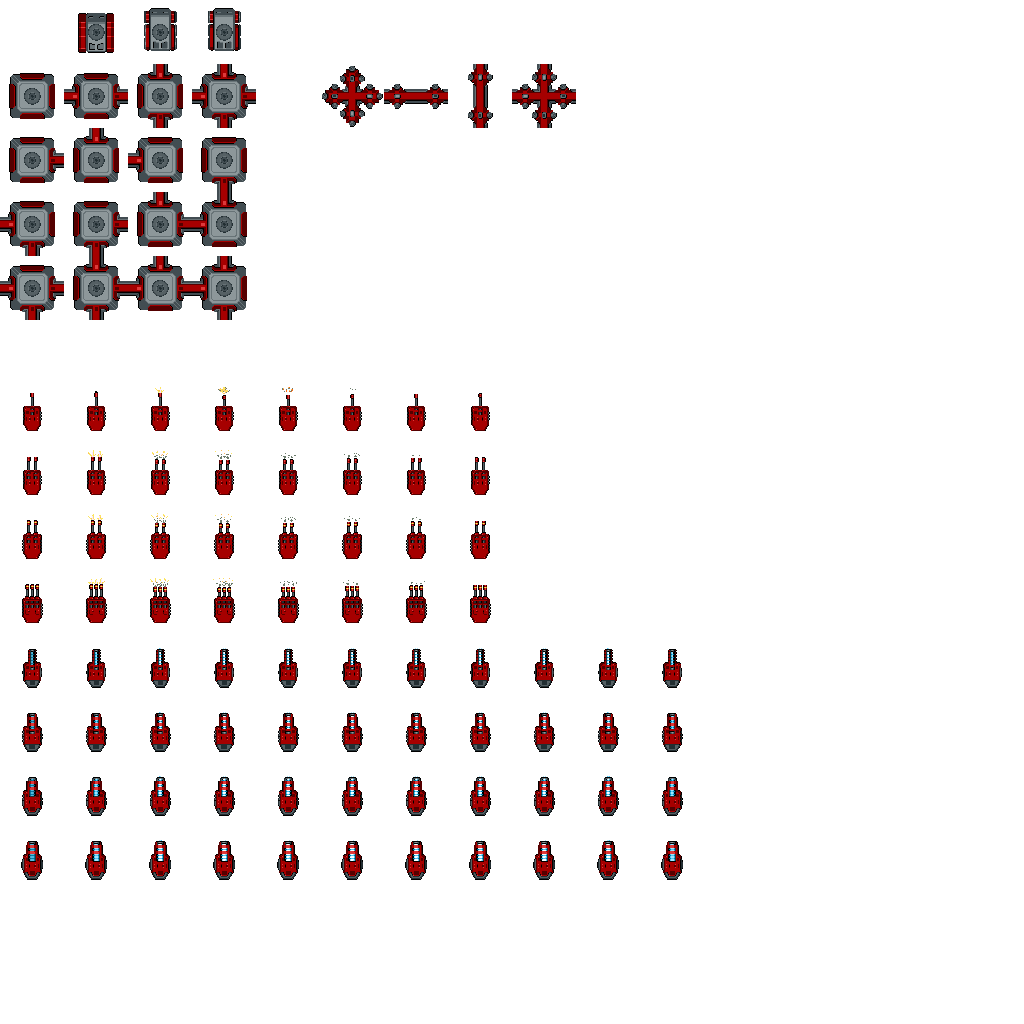
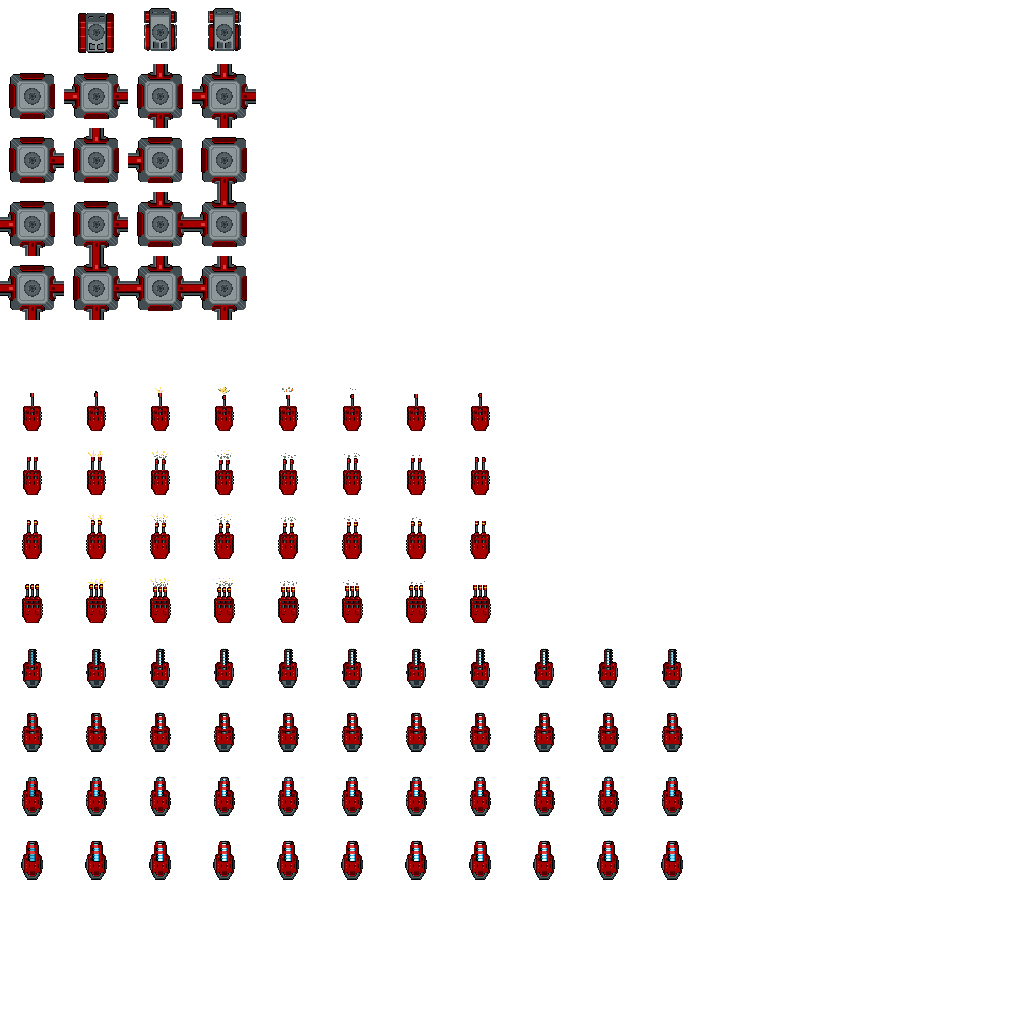
Layers

Changed region(s): [[0.3125, 0.0625, 0.5625, 0.125]]

diff --git a/mediumgame-learning/game.py b/mediumgame-learning/game.py
@@ -2,6 +2,49 @@ import pygame
 from pygame.math import Vector2
 from pygame import Rect
 
+class Layer:
+    def __init__(self, ui, imageFile):
+        self.ui = ui
+        self.texture = pygame.image.load(imageFile)
+
+    def renderTile(self, surface, position, tile):
+        # Location on screen
+        spritePoint = position.elementwise()*self.ui.cellSize
+
+        # Texture
+        texturePoint = tile.elementwise()*self.ui.cellSize
+        textureRect = Rect(int(texturePoint.x), int(texturePoint.y), self.ui.cellWidth, self.ui.cellHeight)
+
+        # Draw
+        surface.blit(self.texture, spritePoint, textureRect)
+
+    def render(self, surface):
+            raise NotImplementedError()
+
+class ArrayLayer(Layer):
+    def __init__(self, ui, imageFile, gameState, array):
+        super().__init__(ui, imageFile)
+        self.gameState = gameState
+        self.array = array
+
+    def render(self, surface):
+        for y in range(self.gameState.worldHeight):
+            for x in range(self.gameState.worldWidth):
+                tile = self.array[y][x]
+                if not tile is None:
+                    self.renderTile(surface, Vector2(x, y), tile)
+
+class UnitsLayer(Layer):
+    def __init__(self, ui, imageFile, gameState, units):
+        super().__init__(ui, imageFile)
+        self.gameState = gameState
+        self.units = units
+
+    def render(self, surface):
+        for unit in self.units:
+            self.renderTile(surface, unit.position, unit.tile)
+            self.renderTile(surface, unit.position, Vector2(0, 6))
+
 class Unit:
     def __init__(self, state, position, tile):
         self.state = state
@@ -14,6 +57,7 @@ class Unit:
 class Tank(Unit):
     def move(self, moveVector):
         newPos = self.position + moveVector
+        #print(newPos)
 
         if newPos.x < 0 or newPos.x >= self.state.worldSize.x \
                 or newPos.y < 0 or newPos.y >= self.state.worldSize.y:
@@ -22,6 +66,9 @@ class Tank(Unit):
         for unit in self.state.units:
             if newPos == unit.position:
                 return
+
+        if self.state.walls[int(newPos.y)][int(newPos.x)]:
+            return
 
         self.position = newPos
 
@@ -34,8 +81,10 @@ class GameState:
         self.worldSize = Vector2(16, 10)
         self.units = [
             Tank(self, Vector2(5, 4), Vector2(1, 0)),
-            Tower(self, Vector2(10, 3), Vector2(0, 1)),
-            Tower(self, Vector2(10, 5), Vector2(0, 1))
+            Tower(self, Vector2(6, 3), Vector2(0, 2)),
+            Tower(self, Vector2(6, 5), Vector2(0, 2)),
+            Tower(self, Vector2(13, 3), Vector2(0, 1)),
+            Tower(self, Vector2(13, 6), Vector2(0, 1))
         ]
         self.ground = [
             [ Vector2(5,1), Vector2(5,1), Vector2(5,1), Vector2(5,1), Vector2(5,1), Vector2(6,2), Vector2(5,1), Vector2(5,1), Vector2(5,1), Vector2(5,1), Vector2(5,1), Vector2(5,1), Vector2(5,1), Vector2(5,1), Vector2(5,1), Vector2(5,1)],
@@ -49,6 +98,26 @@ class GameState:
             [ Vector2(5,1), Vector2(5,1), Vector2(6,2), Vector2(5,1), Vector2(5,1), Vector2(7,1), Vector2(5,1), Vector2(5,1), Vector2(6,1), Vector2(5,1), Vector2(5,1), Vector2(5,1), Vector2(5,1), Vector2(7,4), Vector2(7,2), Vector2(7,2)],
             [ Vector2(5,1), Vector2(5,1), Vector2(6,2), Vector2(6,1), Vector2(5,1), Vector2(5,1), Vector2(5,1), Vector2(5,1), Vector2(5,1), Vector2(5,1), Vector2(5,1), Vector2(5,1), Vector2(5,1), Vector2(5,1), Vector2(5,1), Vector2(5,1)]
 ]
+        self.walls = [
+            [None, None, None, None, None, None, None, None, None, Vector2(1, 3), Vector2(1, 1), Vector2(1, 1),
+             Vector2(1, 1), Vector2(1, 1), Vector2(1, 1), Vector2(1, 1)],
+            [None, None, None, None, None, None, None, None, None, Vector2(2, 1), None, None, None, None, None, None],
+            [None, None, None, None, None, None, None, None, None, Vector2(2, 1), None, None, Vector2(1, 3),
+             Vector2(1, 1), Vector2(0, 3), None],
+            [None, None, None, None, None, None, None, Vector2(1, 1), Vector2(1, 1), Vector2(3, 3), None, None,
+             Vector2(2, 1), None, Vector2(2, 1), None],
+            [None, None, None, None, None, None, None, None, None, None, None, None, Vector2(2, 1), None, Vector2(2, 1),
+             None],
+            [None, None, None, None, None, None, None, Vector2(1, 1), Vector2(1, 1), Vector2(0, 3), None, None,
+             Vector2(2, 1), None, Vector2(2, 1), None],
+            [None, None, None, None, None, None, None, None, None, Vector2(2, 1), None, None, Vector2(2, 1), None,
+             Vector2(2, 1), None],
+            [None, None, None, None, None, None, None, None, None, Vector2(2, 1), None, None, Vector2(2, 3),
+             Vector2(1, 1), Vector2(3, 3), None],
+            [None, None, None, None, None, None, None, None, None, Vector2(2, 1), None, None, None, None, None, None],
+            [None, None, None, None, None, None, None, None, None, Vector2(2, 3), Vector2(1, 1), Vector2(1, 1),
+             Vector2(1, 1), Vector2(1, 1), Vector2(1, 1), Vector2(1, 1)]
+        ]
 
     @property
     def worldWidth(self):
@@ -73,6 +142,11 @@ class UserInterface:
         self.cellSize = Vector2(64, 64)
         self.unitsTexture = pygame.image.load('units.png')
         self.groundTexture = pygame.image.load('ground.png')
+        self.layers = [
+            ArrayLayer(self, 'ground.png', self.gameState, self.gameState.ground),
+            ArrayLayer(self, "walls.png", self.gameState, self.gameState.walls),
+            UnitsLayer(self, "units.png", self.gameState, self.gameState.units)
+        ]
 
         #Window
         windowSize = self.gameState.worldSize.elementwise() * self.cellSize
@@ -117,40 +191,11 @@ class UserInterface:
     def update(self):
         self.gameState.update(self.moveTankCommand)
 
-    def renderGround(self, position, tile):
-        # Location on screen
-        spritePoint = position.elementwise()*self.cellSize
-
-        # Texture
-        texturePoint = tile.elementwise() * self.cellSize
-        textureRect = Rect(int(texturePoint.x), int(texturePoint.y), self.cellWidth, self.cellHeight)
-        self.window.blit(self.groundTexture, spritePoint, textureRect)
-
-    def renderUnit(self, unit):
-        # Location on screen
-        spritePoint = unit.position.elementwise() * self.cellSize
-
-        # Unit texture
-        texturePoint = unit.tile.elementwise() * self.cellSize
-        textureRect = Rect(int(texturePoint.x), int(texturePoint.y), self.cellWidth, self.cellHeight)
-        self.window.blit(self.unitsTexture, spritePoint, textureRect)
-
-        # Weapon texture
-        texturePoint = Vector2(0, 6).elementwise() * self.cellSize
-        textureRect = Rect(int(texturePoint.x), int(texturePoint.y), self.cellWidth, self.cellHeight)
-        self.window.blit(self.unitsTexture, spritePoint, textureRect)
-
     def render(self):
         self.window.fill('black')
 
-        # Background
-        for y in range(self.gameState.worldHeight):
-            for x in range(self.gameState.worldWidth):
-                self.renderGround(Vector2(x, y), self.gameState.ground[y][x])
-
-        # Units
-        for unit in self.gameState.units:
-            self.renderUnit(unit)
+        for layer in self.layers:
+            layer.render(self.window)
 
         pygame.display.flip()
 

diff --git a/mediumgame-learning/test.py b/mediumgame-learning/test.py
@@ -1,3 +1,2 @@
-from pygame.math import Vector2
-a = Vector2('Opa', 11)
-print(type(a.x))
+a = [None, None]
+print(len(a))
